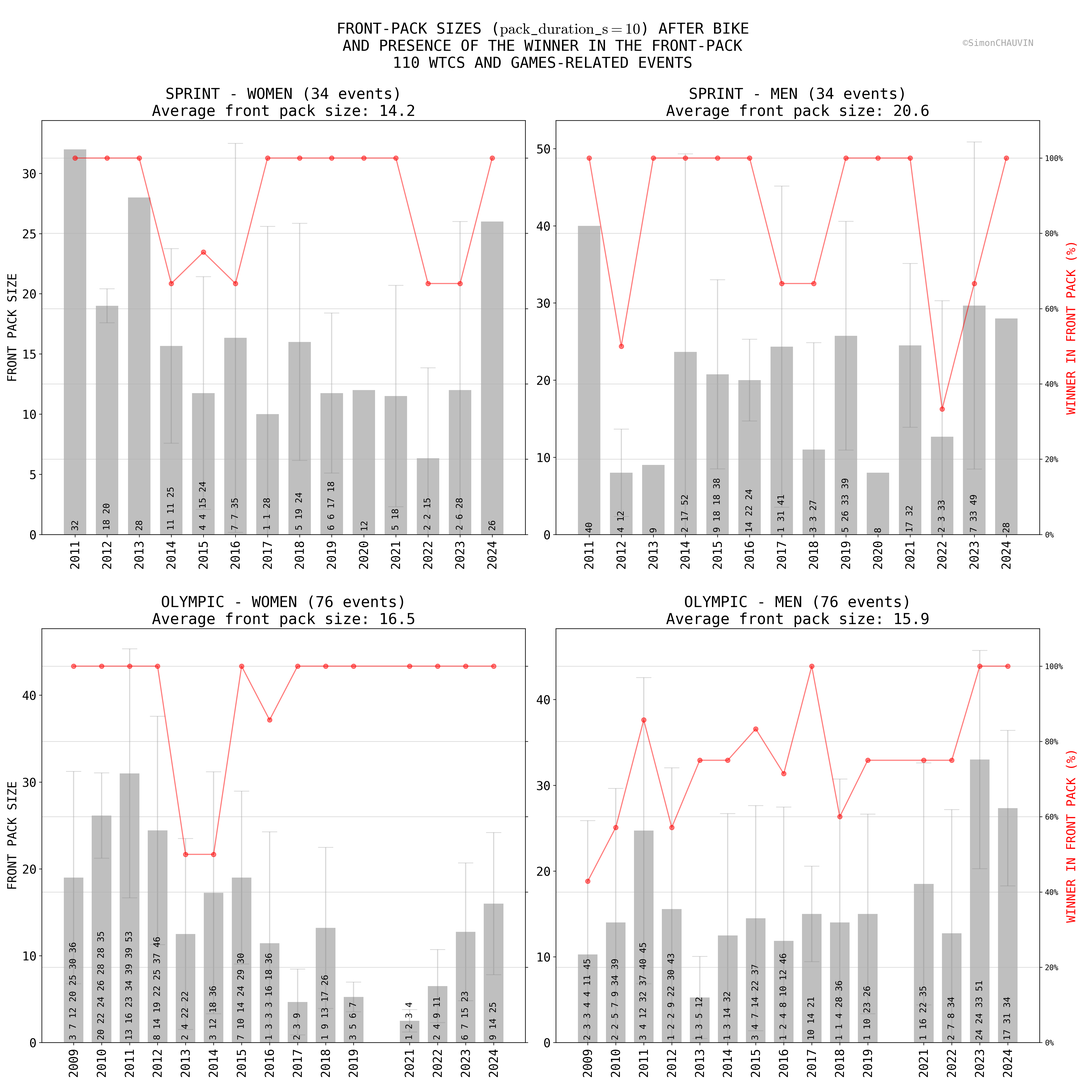
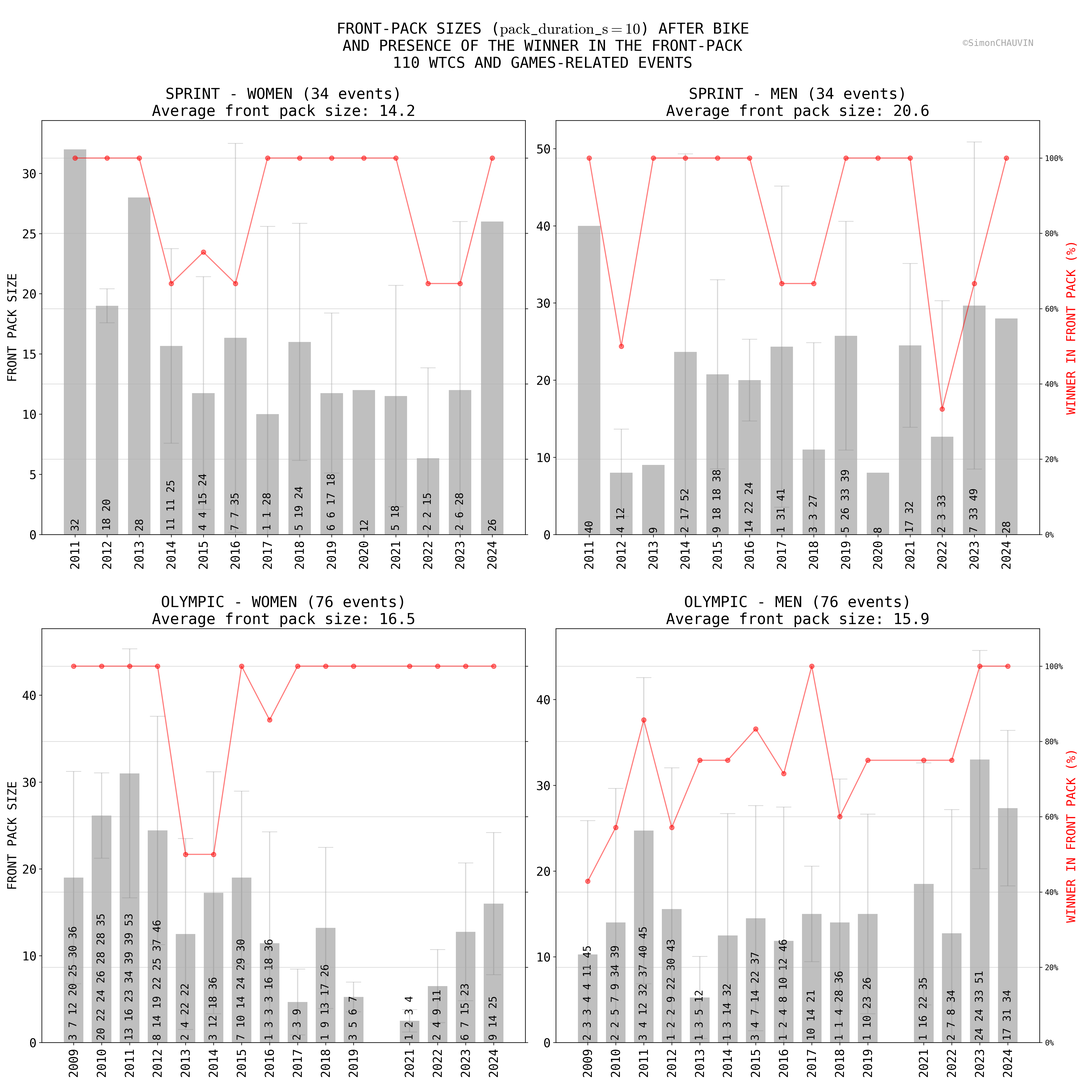
update text

diff --git a/races.py b/races.py
@@ -2031,17 +2031,22 @@ def process_sprint_finish(df):
 
             # set the y-axis ticks:  normalize such that the total area of the histogram equals 1!!!
             axes[i_distance_category, i_suffix].set_yticklabels(map(
-                lambda x: f"{binwidth * x:.1%}",
+                lambda x: f"{binwidth * x:.0%}",
                 axes[i_distance_category, i_suffix].get_yticks()
-            ))
+            ), fontsize=16)
 
             # set x ticks from 0 to current max
             axes[i_distance_category, i_suffix].set_xticks(
                 range(0, max(df2[f"second_delay_{suffix}"]) + binwidth, binwidth))
 
+            gap_max = df2[f"second_delay_{suffix}"].max()
+
             # rotate x ticks by 90
-            axes[i_distance_category, i_suffix].set_xticklabels(axes[i_distance_category, i_suffix].get_xticks(),
-                                                                rotation=90)
+            axes[i_distance_category, i_suffix].set_xticklabels(
+                axes[i_distance_category, i_suffix].get_xticks(),
+                rotation=90,
+                fontsize=15 if gap_max < 80 else 11
+            )
 
             axes[i_distance_category, i_suffix].grid()
 
@@ -2058,14 +2063,17 @@ def process_sprint_finish(df):
                 for index, row in large_gap_df.iterrows():
                     delay_s = row[f"second_delay_{suffix}"]
                     if delay_min <= delay_s < delay_min + binwidth:
-                        txt += f"[{row[f'winner_{suffix}']} ({row['event_year']} {row['event_venue']})]  "
+                        splits = row[f'winner_{suffix}'].split(" ")
+                        winner_str = splits[0] + " " + " ".join(splits[1:]).upper()
+                        event_venue = row['event_venue'].replace("Cannigione, Arzachena", "Arzachena")
+                        txt += f"[{winner_str} ({row['event_year']} {event_venue})]  "
                 if txt:
                     txt = txt[:-2]
                     axes[i_distance_category, i_suffix].text(
                         delay_min + 1 if delay_min != largest_delay else delay_min - 1,  # some handle for last bin
                         0.0,
                         txt,
-                        fontsize=10 if len(txt) < 70 else 9,
+                        fontsize=10 if len(txt) < 90 else 9,
                         rotation=90,
                         va="bottom",
                         ha="center"
@@ -2081,10 +2089,10 @@ def process_sprint_finish(df):
                 alpha=0.7,
             )
             axes[i_distance_category, i_suffix].text(
-                median_delay_s - 1,
+                median_delay_s - 2 if gap_max > 80 else median_delay_s - 1.5,
                 max(n),
-                f"median={median_delay_s:.0f}s",
-                fontsize=10,
+                f"median = {median_delay_s:.0f}s",
+                fontsize=16,
                 rotation=90,
                 va="top",
                 ha="center",
@@ -2101,10 +2109,10 @@ def process_sprint_finish(df):
             )
             # add text
             axes[i_distance_category, i_suffix].text(
-                mean_delay_s + 1,
+                mean_delay_s + 2 if gap_max > 80 else mean_delay_s + 1.5,
                 max(n),
-                f"mean={mean_delay_s:.0f}s",
-                fontsize=10,
+                f"mean = {mean_delay_s:.0f}s",
+                fontsize=16,
                 rotation=90,
                 va="top",
                 ha="center",
@@ -2220,6 +2228,13 @@ def process_sprint_finish(df):
                 ecolor="gray",  # The line color of the errorbars.
                 error_kw={"alpha": 0.3},
             )
+            axes[i_distance_category, i_suffix].tick_params(axis="y", labelsize=15)
+
+            gap_max = df3[f"second_delay_mean"].max()
+            if gap_max > 50:
+                print(gap_max)
+                # todo: use "broken axis"
+                axes[i_distance_category, i_suffix].set_ylim(0, 53)
 
             # add text on the bars
             for _x, second_delays in zip(df3.index, df3[f"second_delays"]):
@@ -2229,7 +2244,7 @@ def process_sprint_finish(df):
                     " ".join(map(str, sorted(second_delays))),
                     ha="center",
                     rotation=90,
-                    fontsize=8
+                    fontsize=14,
                 )
             ax2 = axes[i_distance_category, i_suffix].twinx()
 
@@ -2254,19 +2269,23 @@ def process_sprint_finish(df):
 
             # set x ticks
             axes[i_distance_category, i_suffix].set_xticks(df3.index)
-            axes[i_distance_category, i_suffix].set_xticklabels(df3.index, rotation=90)
+            axes[i_distance_category, i_suffix].set_xticklabels(df3.index, rotation=90, fontsize=15)
 
             # set y name
-            axes[i_distance_category, i_suffix].set_ylabel("FIRST <-> SECOND (s)")
+            axes[i_distance_category, i_suffix].set_ylabel("FIRST <-> SECOND (s)", fontsize=16)
+            # get rid of decimals in y labels
+            axes[i_distance_category, i_suffix].set_yticklabels([int(x) if x.is_integer() else x for x in axes[i_distance_category, i_suffix].get_yticks()])
 
             if i_suffix == 1:
                 ax2.set_ylabel(
-                    f"SPRINT FINISH\n(DIFFERENCE < {sprint_gap_max_s}s)\n(at least {min_n_data} events per year)")
+                    f"SPRINT FINISH\n(DIFFERENCE < {sprint_gap_max_s}s)\n(at least {min_n_data} events per year)",
+                    fontsize=14
+                )
 
             ax2.yaxis.label.set_color("red")
             ax2.yaxis.set_major_formatter(PercentFormatter(1))
             # color the yaxis tick labels
-            ax2.tick_params(axis="y", colors="red")
+            ax2.tick_params(axis="y", colors="red", labelsize=15)
 
             # grid horizontal
             ax2.grid(axis="y", alpha=0.5)
@@ -2430,6 +2449,8 @@ def process_scenarios(df):
             "event": "...",
         })
     df_table = pd.DataFrame(table_info)
+    # upper the columns
+    df_table.columns = df_table.columns.str.upper()
     print(df_table.to_markdown(
         index=False,
         colalign=["center"] * len(df_table.columns)
@@ -2450,7 +2471,7 @@ def process_scenarios(df):
         for i_row, row in df_table.iterrows():
             winner_name = row[f'winner_{suffix}']
             table_info.append({
-                "pack_size": row[f"pack_size_{suffix}"],
+                "**pack_size**": "**" + str(row[f"pack_size_{suffix}"]) + "**",
                 "year": row["event_year"],
                 "winner": f"{winner_name} ( {country_emojis[row[f'winner_country_{suffix}']] if row[f'winner_country_{suffix}'] in country_emojis else row['winner_country_noc']} )",
                 "distance": row["prog_distance_category"].replace("standard", "olympic").upper(),
@@ -2459,7 +2480,7 @@ def process_scenarios(df):
             })
 
         table_info.append({
-            "pack_size": "...",
+            "**pack_size**": "...",
             "year": "...",
             "winner": "...",
             "distance": "...",
@@ -2469,6 +2490,7 @@ def process_scenarios(df):
 
     # print markdown
     df_table = pd.DataFrame(table_info)
+    df_table.columns = df_table.columns.str.upper()
     print(df_table.to_markdown(
         index=False,
         colalign=["center"] * len(df_table.columns)
@@ -2525,7 +2547,7 @@ def process_scenarios(df):
                     " ".join(map(str, sorted(pack_sizes))),
                     ha="center",
                     rotation=90,
-                    fontsize=12
+                    fontsize=14
                 )
             ax2 = axes[i_distance_category, i_suffix].twinx()
             ax2.plot(
@@ -3317,7 +3339,9 @@ def process_event_country(df):
             # sort by values descending
             venue_dict = dict(sorted(venue_dict.items(), key=lambda item: item[1], reverse=True))
             # create "k1(v1) k2(v2) k3(v3)"
-            return ', '.join([f"{k} ({v})" for k, v in venue_dict.items()])
+            res_str = ', '.join([f"{k} ({v})" for k, v in venue_dict.items()])
+            res_str.replace("Cannigione, Arzachena", "Arzachena")
+            return res_str
 
         df_table["VENUES"] = df_table.apply(f_venue, axis=1)
         print(f"\n\n{event_cat.upper()}")

diff --git a/README.md b/README.md
@@ -764,18 +764,19 @@ Note: A **breakaway** on the bike can happen:
 - It should be possible to automatically retrieve the **breakaway type** among the two, using the swim rank of athletes composing the breakaway. _(I have not done it)_.
 
 Two additional pieces of information are retrieved:
-- **`winner_in_front_pack`**: was the **winner already in the leading group** at the end of the bike, or did she/he **come back on the run**? :trophy:
-- **`is_best_runner_in_front_pack`**. :athletic_shoe:
+- :trophy: **`winner_in_front_pack`**: was the **winner already in the leading group** at the end of the bike, or did she/he **come back on the run**?
+- :athletic_shoe: **`is_best_runner_in_front_pack`**.
 
 |       ![scenarios.png](res/scenarios.png)        | 
 |:------------------------------------------------:| 
 | *Size of the front pack at the end of the bike.* |
 
 About the **number of finishers**:
-- **Higher for men**'s races: ~4.5.
+- **~4.5 more** finishers in **men's** races.
   - The standard deviation is higher for women's race.
-- **Higher for sprint** format: ~3.5.
-  - Because olympic formats are longer, weakest athletes are more likely to be caught, leading to a `LAP` elimination?
+- **~3.5** more** finishers in **sprint format** races.
+  - Because the olympic format is longer, weaker athletes are more likely to be caught and eliminated by being lapped?
+- It would be interesting to know the **number of starters** as well.
 
 On the **olympic** format, **men are more likely to break away**.
 - Because they are stronger on the bike?
@@ -789,9 +790,9 @@ Small front packs, i.e. **small breakaways**, are more likely on the **olympic f
 
 ---
 
-Some **very large front groups** at T2:
+Some **very large front groups** at T2 (London ( :gb: ) at the top :guard: ):
 
-|  **pack_size**  |  year  |             winner              |  distance  |  cat  |                                                                                                          event                                                                                                           |
+|  **PACK_SIZE**  |  YEAR  |             WINNER              |  DISTANCE  |  CAT  |                                                                                                          EVENT                                                                                                           |
 |:---------------:|:------:|:-------------------------------:|:----------:|:-----:|:------------------------------------------------------------------------------------------------------------------------------------------------------------------------------------------------------------------------:|
 |     **53**      |  2011  |     Helen Jenkins ( :gb: )      |  OLYMPIC   | WTCS  |                [2011 Dextro Energy Triathlon - ITU World Championship Series London ( :gb: )](https://www.triathlon.org/events/event/2011_dextro_energy_triathlon_-_itu_world_championship_series_london)                |
 |     **46**      |  2012  |  Erin Densham ( :australia: )   |  OLYMPIC   | WTCS  |                                           [2012 Dextro Energy World Triathlon Sydney ( :australia: )](https://www.triathlon.org/events/event/2012_itu_world_triathlon_sydney)                                            |
@@ -810,36 +811,36 @@ Some **very large front groups** at T2:
 <details>
   <summary>Click to expand - :muscle: <strong>Some wins via breakaway (with front-pack-size <= 3).</strong></summary>
 
-|  pack_size  |  year  |               winner                |  distance  |    cat    |                                                                                                 event                                                                                                  |
-|:-----------:|:------:|:-----------------------------------:|:----------:|:---------:|:------------------------------------------------------------------------------------------------------------------------------------------------------------------------------------------------------:|
-|      1      |  2011  |       Sarah Haskins ( :us: )        |  OLYMPIC   | WORLD-CUP |                                  [2011 Monterrey ITU Triathlon World Cup ( :mexico: )](https://www.triathlon.org/events/event/2011_monterrey_itu_triathlon_world_cup)                                  |
-|      1      |  2016  |      Flora Duffy ( :bermuda: )      |  OLYMPIC   |   WTCS    |                                      [2016 ITU World Triathlon Stockholm ( :sweden: )](https://www.triathlon.org/events/event/2016_itu_world_triathlon_stockholm)                                      |
-|      1      |  2018  |      Flora Duffy ( :bermuda: )      |  OLYMPIC   |   WTCS    |                                       [2018 ITU World Triathlon Bermuda ( :bermuda: )](https://www.triathlon.org/events/event/2018_itu_world_triathlon_bermuda)                                        |
-|      1      |  2021  |        Taylor Knibb ( :us: )        |  OLYMPIC   |   WTCS    |                           [2021 World Triathlon Championship Finals Edmonton ( :canada: )](https://www.triathlon.org/events/event/2021_world_triathlon_grand_final_edmonton)                           |
-|      2      |  2011  |   Nicky Samuels ( :new_zealand: )   |  OLYMPIC   | WORLD-CUP |                               [2011 Mooloolaba ITU Triathlon World Cup ( :australia: )](https://www.triathlon.org/events/event/2011_mooloolaba_itu_triathlon_world_cup)                                |
-|      2      |  2017  |      Flora Duffy ( :bermuda: )      |  OLYMPIC   |   WTCS    |                                         [2017 ITU World Triathlon Yokohama ( :jp: )](https://www.triathlon.org/events/event/2017_itu_world_triathlon_yokohama)                                         |
-|      2      |  2021  |        Taylor Knibb ( :us: )        |  OLYMPIC   |   WTCS    |                                   [2021 World Triathlon Championship Series Yokohama ( :jp: )](https://www.triathlon.org/events/event/2021_world_triathlon_yokohama)                                   |
-|      2      |  2022  |      Flora Duffy ( :bermuda: )      |  OLYMPIC   |   WTCS    |                       [2022 World Triathlon Championship Series Bermuda ( :bermuda: )](https://www.triathlon.org/events/event/2022_world_triathlon_championship_series_bermuda)                        |
-|      3      |  2009  |    Emma Moffatt ( :australia: )     |  OLYMPIC   |   WTCS    |      [2009 Dextro Energy Triathlon - ITU World Championship Series Hamburg ( :de: )](https://www.triathlon.org/events/event/2009_dextro_energy_triathlon_-_itu_world_championship_series_hamburg)      |
-|      3      |  2014  |       Jodie Stimpson ( :gb: )       |  OLYMPIC   |   WTCS    |                                    [2014 ITU World Triathlon Auckland ( :new_zealand: )](https://www.triathlon.org/events/event/2014_itu_world_triathlon_auckland)                                     |
-|      3      |  2016  |       Helen Jenkins ( :gb: )        |  OLYMPIC   |   WTCS    |                                   [2016 ITU World Triathlon Gold Coast ( :australia: )](https://www.triathlon.org/events/event/2016_itu_world_triathlon_gold_coast)                                    |
-|      3      |  2016  |      Flora Duffy ( :bermuda: )      |  OLYMPIC   |   WTCS    |                            [2016 ITU World Triathlon Grand Final Cozumel ( :mexico: )](https://www.triathlon.org/events/event/2016_itu_world_triathlon_grand_final_cozumel)                            |
-|      3      |  2017  |      Flora Duffy ( :bermuda: )      |  OLYMPIC   |   WTCS    |                       [2017 ITU World Triathlon Grand Final Rotterdam ( :netherlands: )](https://www.triathlon.org/events/event/2017_itu_world_triathlon_grand_final_rotterdam)                        |
-|      3      |  2019  |       Katie Zaferes ( :us: )        |  OLYMPIC   |   WTCS    |                                  [2019 MS Amlin World Triathlon Bermuda ( :bermuda: )](https://www.triathlon.org/events/event/2019_ms_amlin_world_triathlon_bermuda)                                   |
-|      3      |  2019  |   Julie Derron ( :switzerland: )    |  OLYMPIC   | WORLD-CUP |                                       [2019 Weihai ITU Triathlon World Cup ( :cn: )](https://www.triathlon.org/events/event/2019_weihai_itu_triathlon_world_cup)                                       |
-|      3      |  2021  |    Maya Kingma ( :netherlands: )    |  OLYMPIC   |   WTCS    |                                  [AJ Bell 2021 World Triathlon Championship Series Leeds ( :gb: )](https://www.triathlon.org/events/event/2021_world_triathlon_leeds)                                  |
-|      3      |  2024  |        Lena Meißner ( :de: )        |  OLYMPIC   | WORLD-CUP |                                    [2024 World Triathlon Cup Samarkand ( :uzbekistan: )](https://www.triathlon.org/events/event/2024_world_triathlon_cup_samarkand)                                    |
-|     ...     |  ...   |                 ...                 |    ...     |    ...    |                                                                                                  ...                                                                                                   |
-|      1      |  2013  |     Alistair Brownlee ( :gb: )      |  OLYMPIC   |   WTCS    |                                      [2013 ITU World Triathlon Stockholm ( :sweden: )](https://www.triathlon.org/events/event/2013_itu_world_triathlon_stockholm)                                      |
-|      1      |  2018  |     Casper Stornes ( :norway: )     |  OLYMPIC   |   WTCS    |                                       [2018 ITU World Triathlon Bermuda ( :bermuda: )](https://www.triathlon.org/events/event/2018_itu_world_triathlon_bermuda)                                        |
-|      1      |  2023  |       Morgan Pearson ( :us: )       |  OLYMPIC   | WORLD-CUP |                               [2023 World Triathlon Cup Karlovy Vary ( :czech_republic: )](https://www.triathlon.org/events/event/2023_world_triathlon_cup_karlovy_vary)                               |
-|      2      |  2011  |   Kris Gemmell ( :new_zealand: )    |  OLYMPIC   | WORLD-CUP |                                [2011 Auckland ITU Triathlon World Cup ( :new_zealand: )](https://www.triathlon.org/events/event/2011_auckland_itu_triathlon_world_cup)                                 |
-|      2      |  2016  | Rodrigo Gonzalez Lopez ( :mexico: ) |  OLYMPIC   | WORLD-CUP |                                      [2016 Chengdu ITU Triathlon World Cup ( :cn: )](https://www.triathlon.org/events/event/2016_chengdu_itu_triathlon_world_cup)                                      |
-|      3      |  2009  |        Jan Frodeno ( :de: )         |  OLYMPIC   |   WTCS    |     [2009 Dextro Energy Triathlon - ITU World Championship Series Yokohama ( :jp: )](https://www.triathlon.org/events/event/2009_dextro_energy_triathlon_-_itu_world_championship_series_yokohama)     |
-|      3      |  2011  |     Alistair Brownlee ( :gb: )      |  OLYMPIC   |   WTCS    | [2011 Dextro Energy Triathlon - ITU World Championship Series Kitzbuehel ( :austria: )](https://www.triathlon.org/events/event/2011_dextro_energy_triathlon_-_itu_world_championship_series_kitzbuhel) |
-|      3      |  2014  |     Alistair Brownlee ( :gb: )      |  OLYMPIC   |   WTCS    |                           [2014 ITU World Triathlon Grand Final Edmonton ( :canada: )](https://www.triathlon.org/events/event/2014_itu_world_triathlon_grand_final_edmonton)                           |
-|      3      |  2015  |     Jonathan Brownlee ( :gb: )      |  OLYMPIC   |   WTCS    |                                   [2015 ITU World Triathlon Gold Coast ( :australia: )](https://www.triathlon.org/events/event/2015_itu_world_triathlon_gold_coast)                                    |
-|      3      |  2020  |        Vincent Luis ( :fr: )        |  OLYMPIC   | WORLD-CUP |                           [2020 Karlovy Vary ITU Triathlon World Cup ( :czech_republic: )](https://www.triathlon.org/events/event/2020_karlovy_vary_itu_triathlon_world_cup)                           |
+|  **PACK_SIZE**  |  YEAR  |               WINNER                |  DISTANCE  |    CAT    |                                                                                                 EVENT                                                                                                  |
+|:---------------:|:------:|:-----------------------------------:|:----------:|:---------:|:------------------------------------------------------------------------------------------------------------------------------------------------------------------------------------------------------:|
+|      **1**      |  2011  |       Sarah Haskins ( :us: )        |  OLYMPIC   | WORLD-CUP |                                  [2011 Monterrey ITU Triathlon World Cup ( :mexico: )](https://www.triathlon.org/events/event/2011_monterrey_itu_triathlon_world_cup)                                  |
+|      **1**      |  2016  |      Flora Duffy ( :bermuda: )      |  OLYMPIC   |   WTCS    |                                      [2016 ITU World Triathlon Stockholm ( :sweden: )](https://www.triathlon.org/events/event/2016_itu_world_triathlon_stockholm)                                      |
+|      **1**      |  2018  |      Flora Duffy ( :bermuda: )      |  OLYMPIC   |   WTCS    |                                       [2018 ITU World Triathlon Bermuda ( :bermuda: )](https://www.triathlon.org/events/event/2018_itu_world_triathlon_bermuda)                                        |
+|      **1**      |  2021  |        Taylor Knibb ( :us: )        |  OLYMPIC   |   WTCS    |                           [2021 World Triathlon Championship Finals Edmonton ( :canada: )](https://www.triathlon.org/events/event/2021_world_triathlon_grand_final_edmonton)                           |
+|      **2**      |  2011  |   Nicky Samuels ( :new_zealand: )   |  OLYMPIC   | WORLD-CUP |                               [2011 Mooloolaba ITU Triathlon World Cup ( :australia: )](https://www.triathlon.org/events/event/2011_mooloolaba_itu_triathlon_world_cup)                                |
+|      **2**      |  2017  |      Flora Duffy ( :bermuda: )      |  OLYMPIC   |   WTCS    |                                         [2017 ITU World Triathlon Yokohama ( :jp: )](https://www.triathlon.org/events/event/2017_itu_world_triathlon_yokohama)                                         |
+|      **2**      |  2021  |        Taylor Knibb ( :us: )        |  OLYMPIC   |   WTCS    |                                   [2021 World Triathlon Championship Series Yokohama ( :jp: )](https://www.triathlon.org/events/event/2021_world_triathlon_yokohama)                                   |
+|      **2**      |  2022  |      Flora Duffy ( :bermuda: )      |  OLYMPIC   |   WTCS    |                       [2022 World Triathlon Championship Series Bermuda ( :bermuda: )](https://www.triathlon.org/events/event/2022_world_triathlon_championship_series_bermuda)                        |
+|      **3**      |  2009  |    Emma Moffatt ( :australia: )     |  OLYMPIC   |   WTCS    |      [2009 Dextro Energy Triathlon - ITU World Championship Series Hamburg ( :de: )](https://www.triathlon.org/events/event/2009_dextro_energy_triathlon_-_itu_world_championship_series_hamburg)      |
+|      **3**      |  2014  |       Jodie Stimpson ( :gb: )       |  OLYMPIC   |   WTCS    |                                    [2014 ITU World Triathlon Auckland ( :new_zealand: )](https://www.triathlon.org/events/event/2014_itu_world_triathlon_auckland)                                     |
+|      **3**      |  2016  |       Helen Jenkins ( :gb: )        |  OLYMPIC   |   WTCS    |                                   [2016 ITU World Triathlon Gold Coast ( :australia: )](https://www.triathlon.org/events/event/2016_itu_world_triathlon_gold_coast)                                    |
+|      **3**      |  2016  |      Flora Duffy ( :bermuda: )      |  OLYMPIC   |   WTCS    |                            [2016 ITU World Triathlon Grand Final Cozumel ( :mexico: )](https://www.triathlon.org/events/event/2016_itu_world_triathlon_grand_final_cozumel)                            |
+|      **3**      |  2017  |      Flora Duffy ( :bermuda: )      |  OLYMPIC   |   WTCS    |                       [2017 ITU World Triathlon Grand Final Rotterdam ( :netherlands: )](https://www.triathlon.org/events/event/2017_itu_world_triathlon_grand_final_rotterdam)                        |
+|      **3**      |  2019  |       Katie Zaferes ( :us: )        |  OLYMPIC   |   WTCS    |                                  [2019 MS Amlin World Triathlon Bermuda ( :bermuda: )](https://www.triathlon.org/events/event/2019_ms_amlin_world_triathlon_bermuda)                                   |
+|      **3**      |  2019  |   Julie Derron ( :switzerland: )    |  OLYMPIC   | WORLD-CUP |                                       [2019 Weihai ITU Triathlon World Cup ( :cn: )](https://www.triathlon.org/events/event/2019_weihai_itu_triathlon_world_cup)                                       |
+|      **3**      |  2021  |    Maya Kingma ( :netherlands: )    |  OLYMPIC   |   WTCS    |                                  [AJ Bell 2021 World Triathlon Championship Series Leeds ( :gb: )](https://www.triathlon.org/events/event/2021_world_triathlon_leeds)                                  |
+|      **3**      |  2024  |        Lena Meißner ( :de: )        |  OLYMPIC   | WORLD-CUP |                                    [2024 World Triathlon Cup Samarkand ( :uzbekistan: )](https://www.triathlon.org/events/event/2024_world_triathlon_cup_samarkand)                                    |
+|       ...       |  ...   |                 ...                 |    ...     |    ...    |                                                                                                  ...                                                                                                   |
+|      **1**      |  2013  |     Alistair Brownlee ( :gb: )      |  OLYMPIC   |   WTCS    |                                      [2013 ITU World Triathlon Stockholm ( :sweden: )](https://www.triathlon.org/events/event/2013_itu_world_triathlon_stockholm)                                      |
+|      **1**      |  2018  |     Casper Stornes ( :norway: )     |  OLYMPIC   |   WTCS    |                                       [2018 ITU World Triathlon Bermuda ( :bermuda: )](https://www.triathlon.org/events/event/2018_itu_world_triathlon_bermuda)                                        |
+|      **1**      |  2023  |       Morgan Pearson ( :us: )       |  OLYMPIC   | WORLD-CUP |                               [2023 World Triathlon Cup Karlovy Vary ( :czech_republic: )](https://www.triathlon.org/events/event/2023_world_triathlon_cup_karlovy_vary)                               |
+|      **2**      |  2011  |   Kris Gemmell ( :new_zealand: )    |  OLYMPIC   | WORLD-CUP |                                [2011 Auckland ITU Triathlon World Cup ( :new_zealand: )](https://www.triathlon.org/events/event/2011_auckland_itu_triathlon_world_cup)                                 |
+|      **2**      |  2016  | Rodrigo Gonzalez Lopez ( :mexico: ) |  OLYMPIC   | WORLD-CUP |                                      [2016 Chengdu ITU Triathlon World Cup ( :cn: )](https://www.triathlon.org/events/event/2016_chengdu_itu_triathlon_world_cup)                                      |
+|      **3**      |  2009  |        Jan Frodeno ( :de: )         |  OLYMPIC   |   WTCS    |     [2009 Dextro Energy Triathlon - ITU World Championship Series Yokohama ( :jp: )](https://www.triathlon.org/events/event/2009_dextro_energy_triathlon_-_itu_world_championship_series_yokohama)     |
+|      **3**      |  2011  |     Alistair Brownlee ( :gb: )      |  OLYMPIC   |   WTCS    | [2011 Dextro Energy Triathlon - ITU World Championship Series Kitzbuehel ( :austria: )](https://www.triathlon.org/events/event/2011_dextro_energy_triathlon_-_itu_world_championship_series_kitzbuhel) |
+|      **3**      |  2014  |     Alistair Brownlee ( :gb: )      |  OLYMPIC   |   WTCS    |                           [2014 ITU World Triathlon Grand Final Edmonton ( :canada: )](https://www.triathlon.org/events/event/2014_itu_world_triathlon_grand_final_edmonton)                           |
+|      **3**      |  2015  |     Jonathan Brownlee ( :gb: )      |  OLYMPIC   |   WTCS    |                                   [2015 ITU World Triathlon Gold Coast ( :australia: )](https://www.triathlon.org/events/event/2015_itu_world_triathlon_gold_coast)                                    |
+|      **3**      |  2020  |        Vincent Luis ( :fr: )        |  OLYMPIC   | WORLD-CUP |                           [2020 Karlovy Vary ITU Triathlon World Cup ( :czech_republic: )](https://www.triathlon.org/events/event/2020_karlovy_vary_itu_triathlon_world_cup)                           |
 
 Strong bikers and **very versatile** triathletes! :clap:
 - Especially **Flora Duffy** ( :bermuda: ) and **Alistair Brownlee** ( :gb: ).
@@ -934,6 +935,10 @@ This section studies the **time gap between the winner and the second**.
 Gaps **between the winner and the second** are on average:
 - **~Twice as large** in **olympic** formats compared to **sprint** formats.
 - **~Twice as large** for **women** compared to **men**.
+
+It has been a long time since a **women's olympic race** was won by a **sprint**.
+
+---
 
 <details>
   <summary>Click to expand - 📸 <strong>Some of the most contested finishes on the blue carpet.</strong></summary>
@@ -1362,7 +1367,7 @@ It can be that some events are missing: these entries come from the data used fo
 |   AUS ( :australia: )    |  10   |                                Mooloolaba (9), Wollongong (1)                                 |
 |       CHN ( :cn: )       |   9   |             Jintang (3), Weihai (2), Chengdu (2), Gansu (1), Weihai, Shandong (1)             |
 |    HUN ( :hungary: )     |   9   |                              Tiszaujvaros (7), Tiszaujvaros  (2)                              |
-|       ITA ( :it: )       |   8   |                       Cagliari (4), Cannigione, Arzachena (3), Rome (1)                       |
+|       ITA ( :it: )       |   8   |                             Cagliari (4), Arzachena (3), Rome (1)                             |
 |  NZL ( :new_zealand: )   |   8   |                          New Plymouth (6), Auckland (1), Napier (1)                           |
 |       JPN ( :jp: )       |   7   |                                  Miyazaki (6), Ishigaki (1)                                   |
 | CZE ( :czech_republic: ) |   6   |                                       Karlovy Vary (6)                                        |
